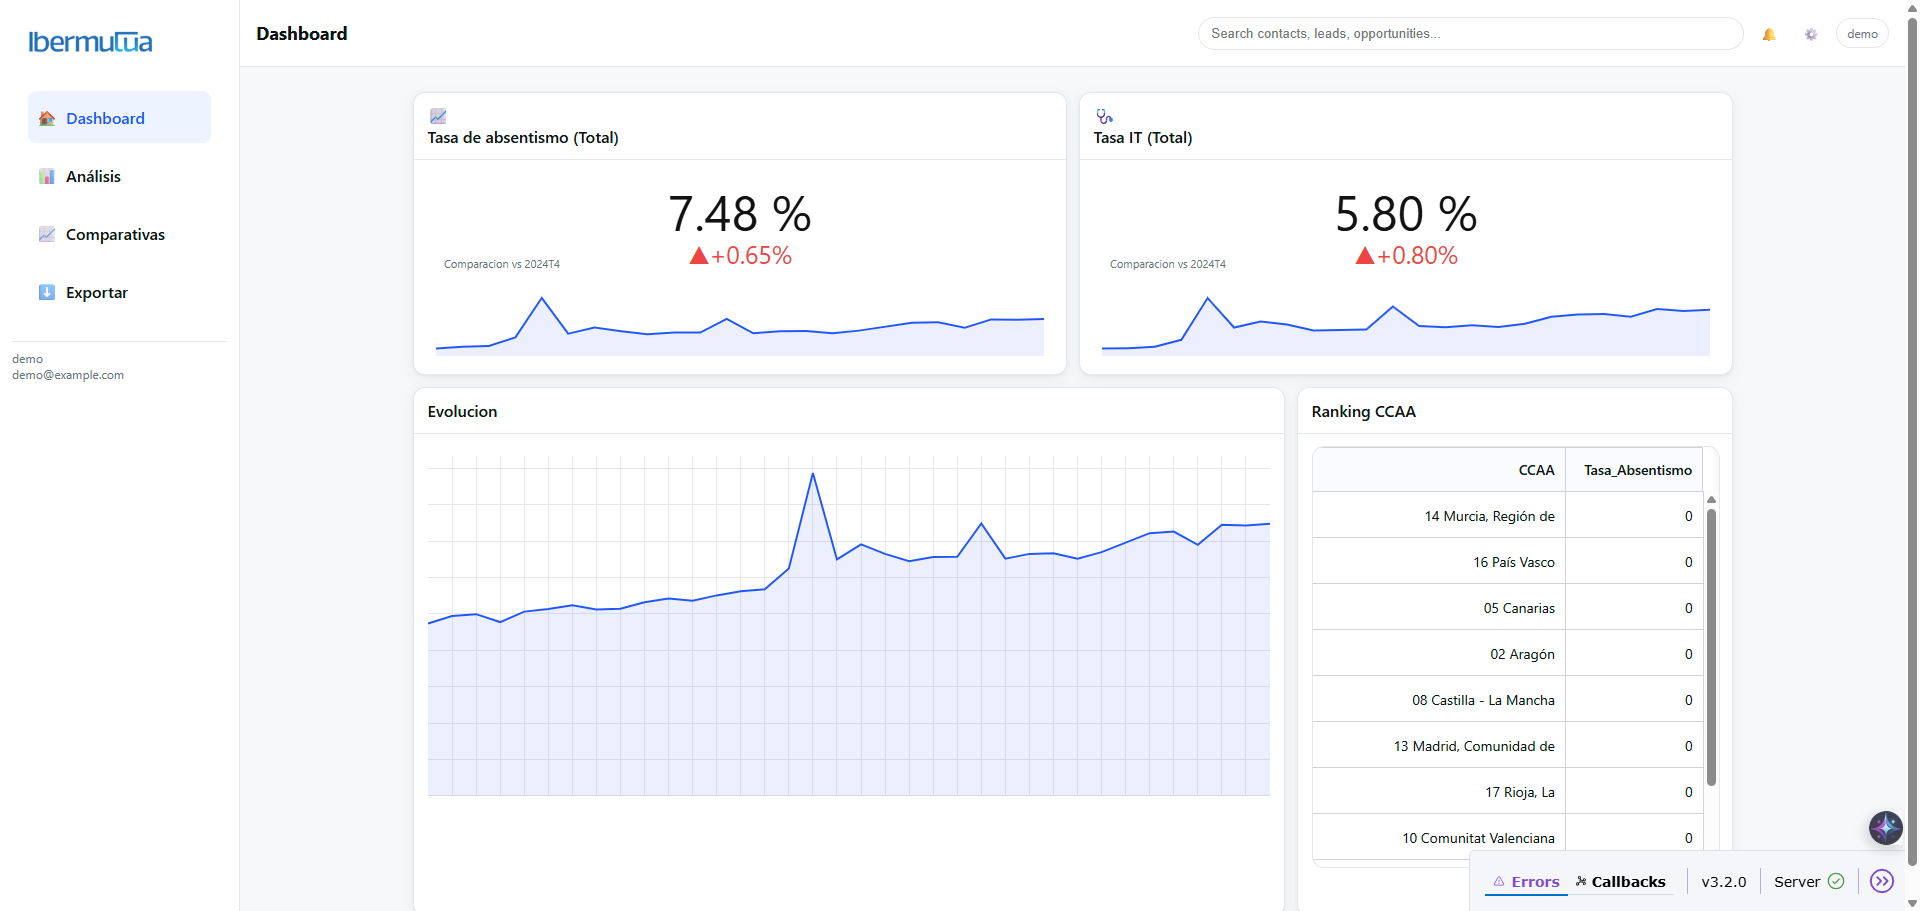
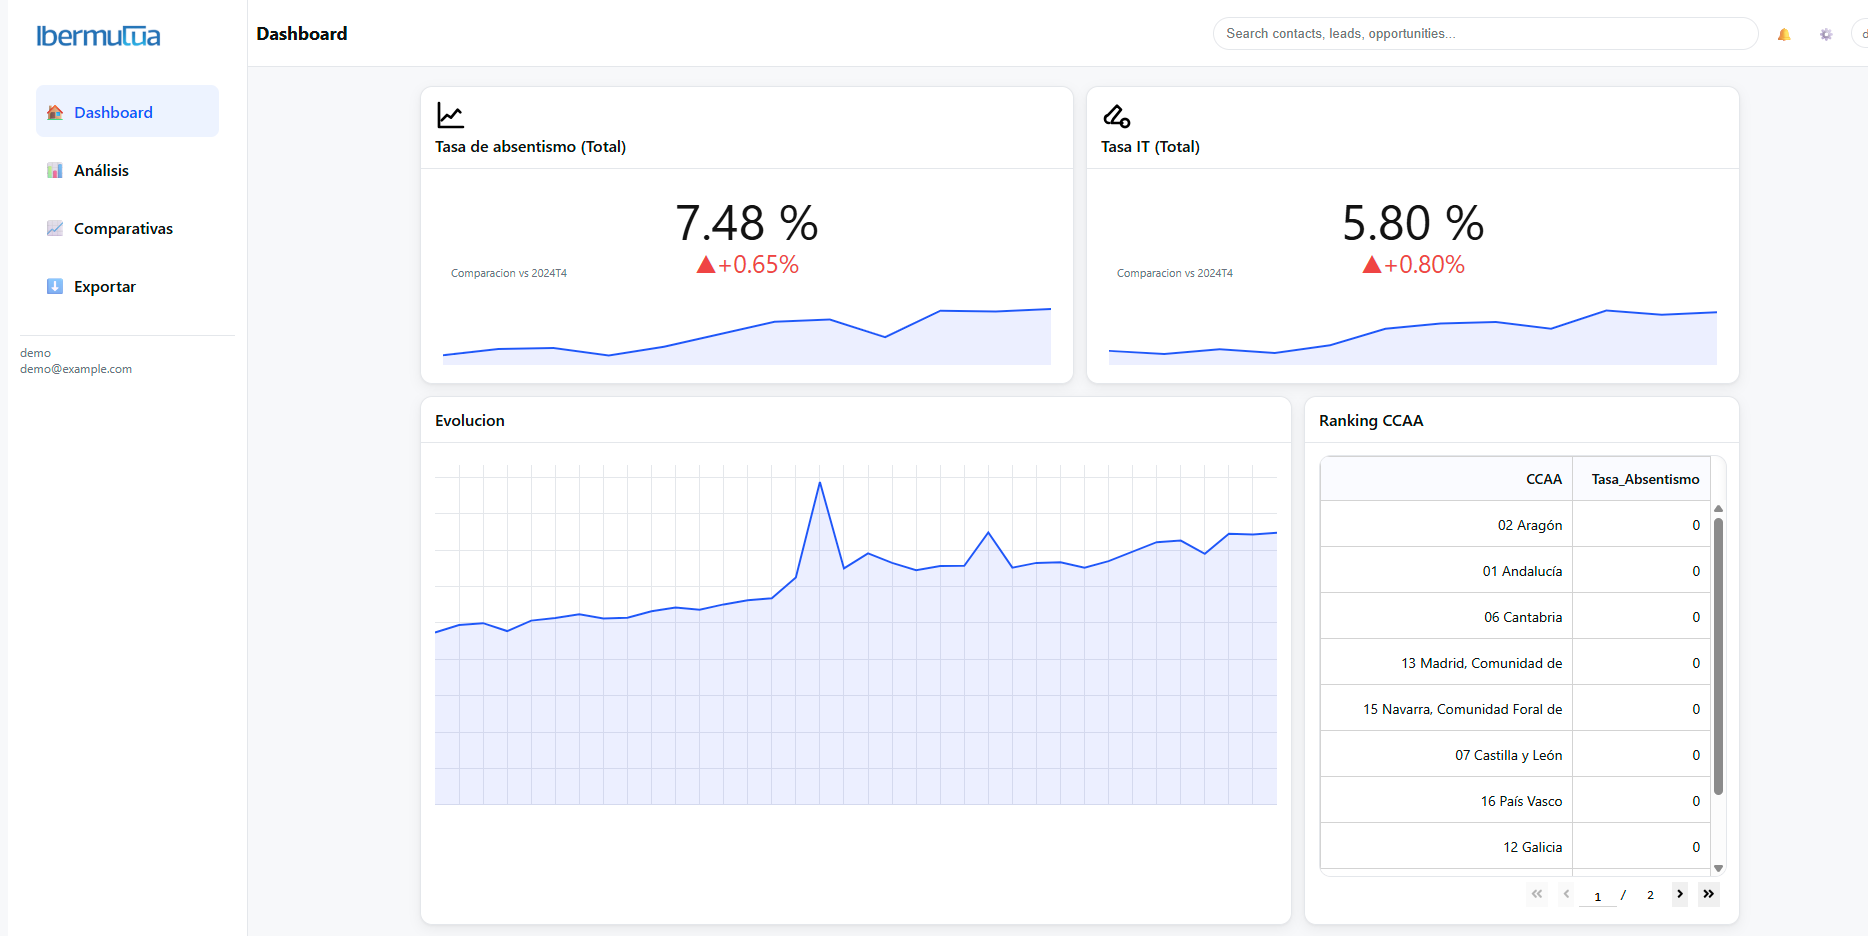
ui: icono KPI a la izquierda con chip y sombra; sparkline 12 periodos

diff --git a/apps/dash/assets/z-overrides.css b/apps/dash/assets/z-overrides.css
@@ -48,7 +48,28 @@ header { max-width: 100% !important; margin: 0 !important; }
 .kpi-card .kpi-value { font-size: 24px; font-weight: 700; margin-top: 2px; }
 .kpi-card .kpi-trend { font-size: 12px; margin-top: 4px; color: var(--color-muted); }
 .kpi-card .kpi-trend.up { color: var(--color-success); }
-.kpi-card .kpi-trend.down { color: var(--color-danger); }
+.kpi-card .kpi-trend.down {
+/* Títulos unificados para cards y KPIs */
+.card-title, .kpi-card .kpi-title {
+  font-weight: 700;
+  font-size: 16px;
+  color: var(--color-text);
+}
+
+/* Card header icon aligned to the left of title */
+.card-header .card-titlewrap { display:flex; align-items:center; gap: 10px; }
+.card-header .card-icon {
+  width: 36px;
+  height: 36px;
+  display: inline-flex;
+  align-items: center;
+  justify-content: center;
+  border-radius: 10px;
+  background: #eef3ff; /* subtle chip behind svg */
+  box-shadow: 0 2px 8px rgba(27,89,248,0.25);
+  padding: 6px; /* breathing room around svg */
+  color: var(--color-primary);
+} color: var(--color-danger); }
 
 /* Icono genérico para headers de card (SVG/emoji) */
 .card-header .card-icon {
@@ -139,3 +160,4 @@ header { max-width: 100% !important; margin: 0 !important; }
   .filter [class*="Select__control"] { min-height: 44px; }
   .kpi-card .kpi-value { font-size: 20px; }
 }
+
